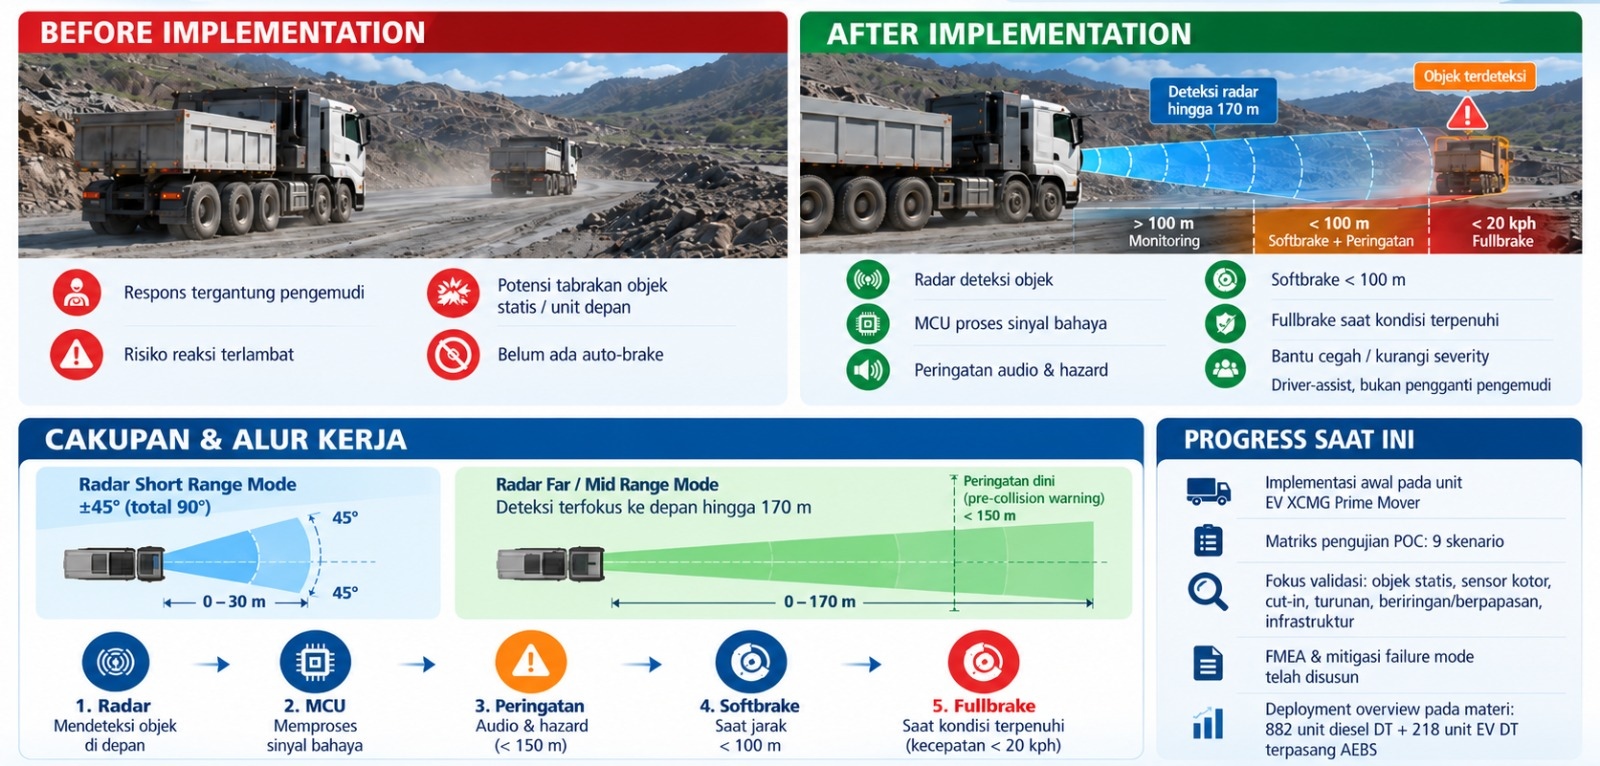
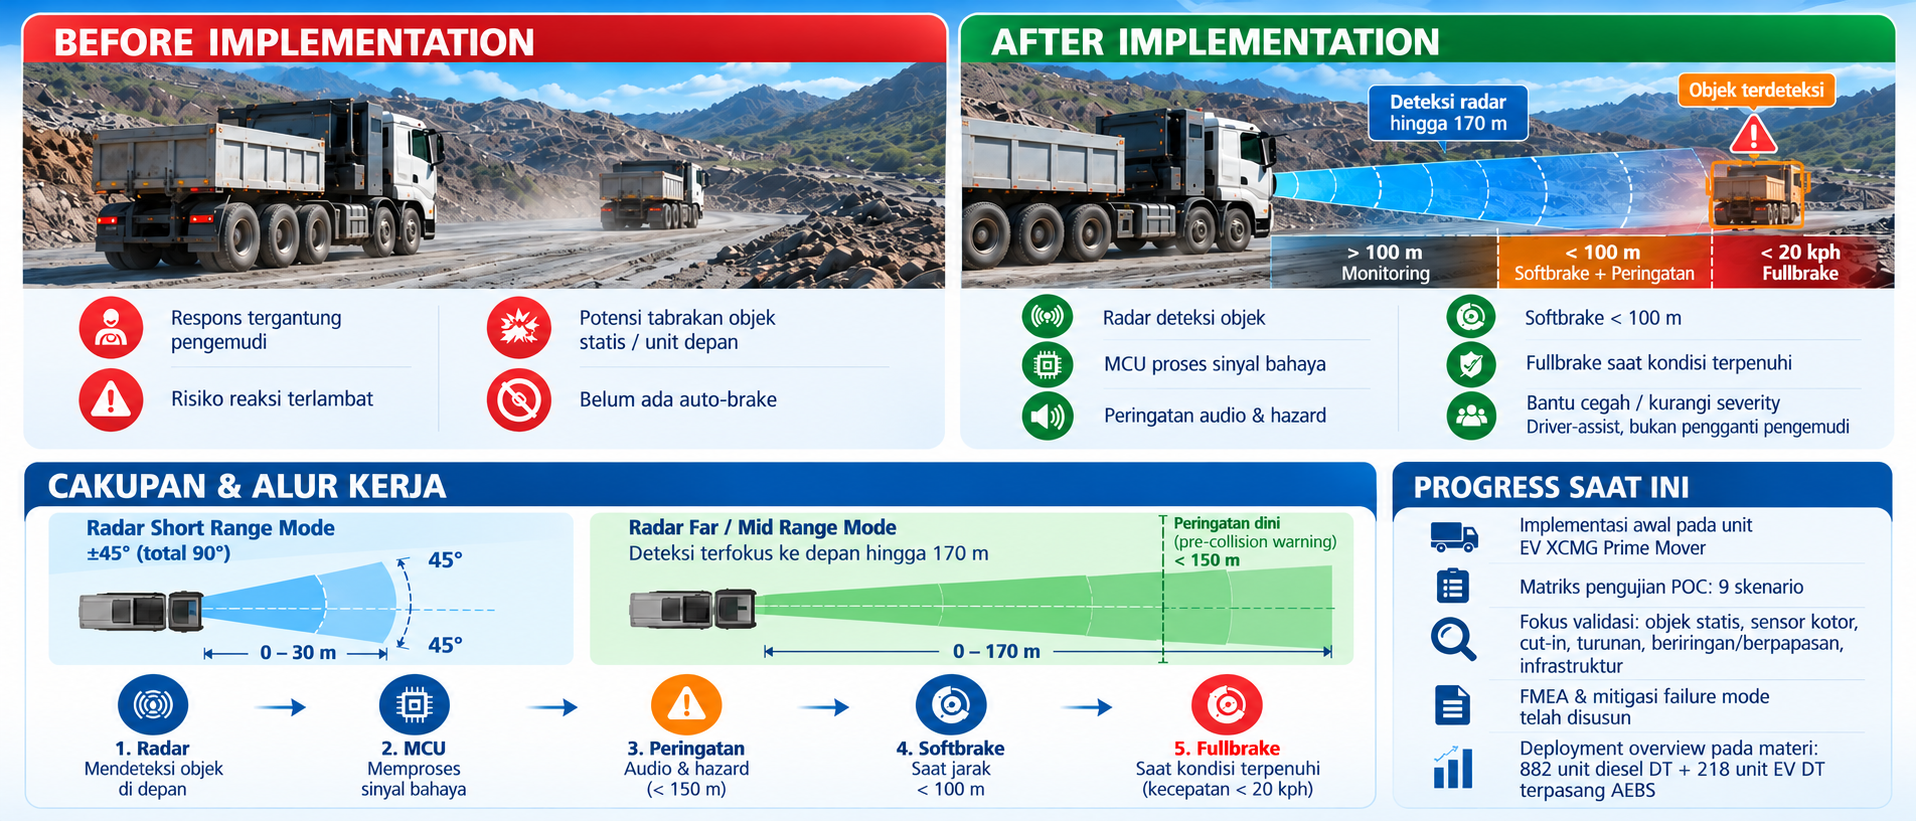
update materi cod

diff --git a/q3.html b/q3.html
@@ -5472,7 +5472,7 @@
   .ov2-hz-bars{ grid-template-columns:repeat(10,minmax(0,1fr)) 6px repeat(4,minmax(0,.85fr)) !important; }
   .ov2-hz-bars .yr.q-first{ grid-column:12; }
   .ov2-hz-bars .yr.q-first::before{ content:''; position:absolute; left:-8px; top:4px; bottom:2px; border-left:1.5px dashed #9CC79A; }
-  .ov2-hz-bars .yr[class*="q"] > span{ color:#147A2C; font-weight:800; }
+  .ov2-hz-bars .yr.qc > span{ color:#147A2C; font-weight:800; }
   .ov2-hz-bars .yr[class*="q"] .sg i{ opacity:.85; }
   .ov2-hz, .ov2-hz > *{ min-width:0 !important; } .ov2-hz-bars{ width:100% !important; min-width:0 !important; box-sizing:border-box; }
   .ov2-hz-bars .yr{ min-width:0; } .ov2-hz-bars .yr.q .sg em{ font-size:9.5px !important; } .ov2-hz-bars .yr.q .sg i{ width:58% !important; }
@@ -5490,6 +5490,11 @@
   .mx-ads{ position:relative; display:inline-block; max-width:100%; max-height:100%; line-height:0; }
   .mx-ads img{ display:block; max-width:100%; max-height:100%; }
   .mx-ads video{ position:absolute; left:1.8%; top:2.3%; width:34%; height:95.4%; object-fit:cover; border-radius:10px; background:#0B1D2A; }
+  /* infographic details keep their own proportions (no stretching) */
+  .sm-det .mx-full.mx-fit{ display:flex !important; align-items:center; justify-content:center; }
+  .sm-det .mx-fit > img{ object-fit:contain !important; width:100% !important; height:100% !important; }
+  .sm-det .mx-fit .mx-ads{ height:100%; aspect-ratio:1672/715; max-width:100%; }
+  .sm-det .mx-fit .mx-ads img{ width:100% !important; height:100% !important; object-fit:contain !important; }
 </style>
 <script>
 (function(){
@@ -5881,7 +5886,7 @@
         <div class="ov2-hz">
           <div class="ov2-hz-main">
             <div class="ov2-hz-h"><b>Identifikasi Hazard, Pengawasan Berjarak, TBC <small>(x 1000)</small></b><span class="lg"><i class="tbc"></i>TBC Report<i class="hr"></i>Hazard Report<i class="rb"></i>Report Berjarak</span></div>
-            <div class="ov2-hz-bars"><div class="yr"><div class="sg tbc none"></div><div class="sg rb none"></div><div class="sg hr"><em>92,1</em><i style="--h:0.0886"></i></div><span>2017</span></div><div class="yr"><div class="sg tbc none"></div><div class="sg rb none"></div><div class="sg hr"><em>61,5</em><i style="--h:0.0592"></i></div><span>2018</span></div><div class="yr"><div class="sg tbc none"></div><div class="sg rb none"></div><div class="sg hr"><em>126,0</em><i style="--h:0.1212"></i></div><span>2019</span></div><div class="yr"><div class="sg tbc none"></div><div class="sg rb none"></div><div class="sg hr"><em>359,3</em><i style="--h:0.3457"></i></div><span>2020</span></div><div class="yr"><div class="sg tbc none"></div><div class="sg rb none"></div><div class="sg hr"><em>555,2</em><i style="--h:0.5342"></i></div><span>2021</span></div><div class="yr"><div class="sg tbc none"></div><div class="sg rb"><em>121,0</em><i style="--h:0.2383"></i></div><div class="sg hr"><em>703,5</em><i style="--h:0.6769"></i></div><span>2022</span></div><div class="yr"><div class="sg tbc"><em>0,9</em><i style="--h:0.0400"></i></div><div class="sg rb"><em>225,5</em><i style="--h:0.4442"></i></div><div class="sg hr"><em>774,1</em><i style="--h:0.7448"></i></div><span>2023</span></div><div class="yr"><div class="sg tbc"><em>18,8</em><i style="--h:0.0462"></i></div><div class="sg rb"><em>325,5</em><i style="--h:0.6411"></i></div><div class="sg hr"><em>827,3</em><i style="--h:0.7960"></i></div><span>2024</span></div><div class="yr"><div class="sg tbc brk"><em>345,3</em><i style="--h:0.8488"></i></div><div class="sg rb"><em>381,6</em><i style="--h:0.7516"></i></div><div class="sg hr"><em>999,9</em><i style="--h:0.9621"></i></div><span>2025</span></div><div class="yr"><div class="sg tbc brk"><em>406,8</em><i style="--h:1.0000"></i></div><div class="sg rb"><em>507,7</em><i style="--h:1.0000"></i></div><div class="sg hr"><em>1.039,3</em><i style="--h:1.0000"></i></div><span>2026</span></div><div class="yr q q-first"><div class="sg tbc"><em>97,2</em><i style="--h:0.7420"></i></div><div class="sg rb"><em>121,4</em><i style="--h:0.7414"></i></div><div class="sg hr"><em>248,6</em><i style="--h:0.7396"></i></div><span>Q1</span></div><div class="yr q"><div class="sg tbc"><em>101,5</em><i style="--h:0.7748"></i></div><div class="sg rb"><em>126,9</em><i style="--h:0.7750"></i></div><div class="sg hr"><em>261,3</em><i style="--h:0.7774"></i></div><span>Q2</span></div></div>
+            <div class="ov2-hz-bars"><div class="yr"><div class="sg tbc none"></div><div class="sg rb none"></div><div class="sg hr"><em>92,1</em><i style="--h:0.0886"></i></div><span>2017</span></div><div class="yr"><div class="sg tbc none"></div><div class="sg rb none"></div><div class="sg hr"><em>61,5</em><i style="--h:0.0592"></i></div><span>2018</span></div><div class="yr"><div class="sg tbc none"></div><div class="sg rb none"></div><div class="sg hr"><em>126,0</em><i style="--h:0.1212"></i></div><span>2019</span></div><div class="yr"><div class="sg tbc none"></div><div class="sg rb none"></div><div class="sg hr"><em>359,3</em><i style="--h:0.3457"></i></div><span>2020</span></div><div class="yr"><div class="sg tbc none"></div><div class="sg rb none"></div><div class="sg hr"><em>555,2</em><i style="--h:0.5342"></i></div><span>2021</span></div><div class="yr"><div class="sg tbc none"></div><div class="sg rb"><em>121,0</em><i style="--h:0.2383"></i></div><div class="sg hr"><em>703,5</em><i style="--h:0.6769"></i></div><span>2022</span></div><div class="yr"><div class="sg tbc"><em>0,9</em><i style="--h:0.0400"></i></div><div class="sg rb"><em>225,5</em><i style="--h:0.4442"></i></div><div class="sg hr"><em>774,1</em><i style="--h:0.7448"></i></div><span>2023</span></div><div class="yr"><div class="sg tbc"><em>18,8</em><i style="--h:0.0462"></i></div><div class="sg rb"><em>325,5</em><i style="--h:0.6411"></i></div><div class="sg hr"><em>827,3</em><i style="--h:0.7960"></i></div><span>2024</span></div><div class="yr"><div class="sg tbc brk"><em>345,3</em><i style="--h:0.8488"></i></div><div class="sg rb"><em>381,6</em><i style="--h:0.7516"></i></div><div class="sg hr"><em>999,9</em><i style="--h:0.9621"></i></div><span>2025</span></div><div class="yr qc q-first"><div class="sg tbc"><em>90,0</em><i style="--h:0.5450"></i></div><div class="sg rb"><em>122,7</em><i style="--h:0.6290"></i></div><div class="sg hr"><em>259,7</em><i style="--h:0.7199"></i></div><span>Q1'26</span></div><div class="yr qc"><div class="sg tbc"><em>101,5</em><i style="--h:0.6148"></i></div><div class="sg rb"><em>132,2</em><i style="--h:0.6780"></i></div><div class="sg hr"><em>277,2</em><i style="--h:0.7687"></i></div><span>Q2'26</span></div><div class="yr qc"><div class="sg tbc"><em>148,6</em><i style="--h:0.9000"></i></div><div class="sg rb"><em>175,5</em><i style="--h:0.9000"></i></div><div class="sg hr"><em>324,6</em><i style="--h:0.9000"></i></div><span>Q3'26</span></div></div>
           </div>
           <div class="ov2-hz-up"><svg viewBox="0 0 48 32" aria-hidden="true"><path d="M2 28 L16 16 L24 22 L42 6"/><path d="M32 5 H43 V16"/></svg><b>Uptrend Reporting Identifikasi Hazard, Pengawasan Berjarak &amp; TBC</b></div>
         </div>
@@ -11912,8 +11917,8 @@
           + '<section class="rd"><h5><i>' + SM_SVG.bulb + '</i>Future Research &amp; Dev</h5><ul>' + smLi(P.rnd) + '</ul></section>')
           + (a.next ? '<div class="nx"><small>Next step</small><b>' + a.next + '</b></div>' : '') + '</aside></div>'
         : a.rich === 'mir' ? (a.id === 'mir' ? SM_MIR.replace('mom/mir-visual.jpg', 'mom/mir-fix.jpg').replace('Motion Intelligent Rover (MIR): before dan after implementation serta cara kerja', 'Motion Intelligent Rover (MIR): before dan after implementation serta perangkat MIR')
-          : a.id === 'ads' ? '<div class="mx-full mx-haul mx-noprog"><div class="mx-ads"><img src="mom/drone.png" alt="ADS: before dan after implementation pengawasan drone"><video src="mom/dron.mp4" autoplay muted loop playsinline preload="auto" aria-label="Video drone ADS"></video></div></div>'
-          : a.id === 'aebs' ? SM_MIR.replace('mom/mir-visual.jpg', 'mom/auto-fix.jpeg').replace('<div class="mx-full">', '<div class="mx-full mx-haul mx-noprog">').replace('Motion Intelligent Rover (MIR): before dan after implementation serta cara kerja', 'AEBS: before dan after implementation, cakupan &amp; alur kerja, serta progress saat ini')
+          : a.id === 'ads' ? '<div class="mx-full mx-haul mx-noprog mx-fit"><div class="mx-ads"><img src="mom/drone.png" alt="ADS: before dan after implementation pengawasan drone"><video src="mom/dron.mp4" autoplay muted loop playsinline preload="auto" aria-label="Video drone ADS"></video></div></div>'
+          : a.id === 'aebs' ? SM_MIR.replace('mom/mir-visual.jpg', 'mom/auto-fix.jpeg').replace('<div class="mx-full">', '<div class="mx-full mx-haul mx-noprog mx-fit">').replace('Motion Intelligent Rover (MIR): before dan after implementation serta cara kerja', 'AEBS: before dan after implementation, cakupan &amp; alur kerja, serta progress saat ini')
           : a.id === 'blast' ? SM_MIR.replace('mom/mir-visual.jpg', 'mom/remote-blasting.jpg').replace('<div class="mx-full">', '<div class="mx-full mx-haul mx-noprog">').replace('Motion Intelligent Rover (MIR): before dan after implementation serta cara kerja', 'Remote Blasting (BenchREMOTE): before dan after implementation, komponen utama, use case dan manfaat')
           : a.id === 'pump' ? SM_MIR.replace('mom/mir-visual.jpg', 'mom/remote-fix.jpg').replace('<div class="mx-full">', '<div class="mx-full mx-haul">').replace('Motion Intelligent Rover (MIR): before dan after implementation serta cara kerja', 'Remote Pump: before dan after implementation serta progress saat ini')
           : a.id === 'arcas' ? SM_MIR.replace('mom/mir-visual.jpg', 'mom/arcas-fix.jpg').replace('<div class="mx-full">', '<div class="mx-full mx-haul">').replace('Motion Intelligent Rover (MIR): before dan after implementation serta cara kerja', 'ARCAS HD 3327: before dan after implementation, cara kerja, dan dampak utama')
